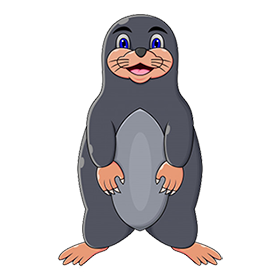
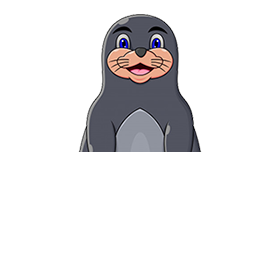
add bottom half of hole

Changed region(s): [[0.2, 0.5429, 0.8, 0.9714]]

diff --git a/index.html b/index.html
@@ -17,31 +17,31 @@
     <div class="container">
         <div class="row">
           <div class="hole col-sm">
+            <img class="hole-bottom" src="pics/hole-bottom-half.png" width="300" height="150">
             <img class="mole" src="pics/cute-mole.png" alt="mole">
-            <img src="https://media.istockphoto.com/vectors/big-hole-the-ground-illustration-ground-works-digging-of-sand-coal-vector-id1161246936?k=6&m=1161246936&s=612x612&w=0&h=DOnlVygrvkmBqCj7sGTeI5lyXTJvcJMXBOgR5aCmBGQ=" 
-            width="300" height="150" alt="hole">
+            <img src="pics/hole.jpg" width="300" height="150" alt="hole">
           </div>
           <div class="hole col-sm">
-            <img src="https://media.istockphoto.com/vectors/big-hole-the-ground-illustration-ground-works-digging-of-sand-coal-vector-id1161246936?k=6&m=1161246936&s=612x612&w=0&h=DOnlVygrvkmBqCj7sGTeI5lyXTJvcJMXBOgR5aCmBGQ=" 
-            width="300" height="150" alt="hole">
+            <img class="hole-bottom" src="pics/hole-bottom-half.png" width="300" height="150">
+            <img src="pics/hole.jpg" width="300" height="150" alt="hole">
           </div>
           <div class="hole col-sm">
-            <img src="https://media.istockphoto.com/vectors/big-hole-the-ground-illustration-ground-works-digging-of-sand-coal-vector-id1161246936?k=6&m=1161246936&s=612x612&w=0&h=DOnlVygrvkmBqCj7sGTeI5lyXTJvcJMXBOgR5aCmBGQ=" 
-            width="300" height="150" alt="hole">
+            <img class="hole-bottom" src="pics/hole-bottom-half.png" width="300" height="150">
+            <img src="pics/hole.jpg" width="300" height="150" alt="hole">
           </div>
         </div>
         <div class="row">
             <div class="hole col-sm">
-                <img src="https://media.istockphoto.com/vectors/big-hole-the-ground-illustration-ground-works-digging-of-sand-coal-vector-id1161246936?k=6&m=1161246936&s=612x612&w=0&h=DOnlVygrvkmBqCj7sGTeI5lyXTJvcJMXBOgR5aCmBGQ=" 
-                width="300" height="150" alt="hole">
+              <img class="hole-bottom" src="pics/hole-bottom-half.png" width="300" height="150">
+              <img src="pics/hole.jpg" width="300" height="150" alt="hole">
             </div>
             <div class="hole col-sm">
-                <img src="https://media.istockphoto.com/vectors/big-hole-the-ground-illustration-ground-works-digging-of-sand-coal-vector-id1161246936?k=6&m=1161246936&s=612x612&w=0&h=DOnlVygrvkmBqCj7sGTeI5lyXTJvcJMXBOgR5aCmBGQ=" 
-                width="300" height="150" alt="hole">
+              <img class="hole-bottom" src="pics/hole-bottom-half.png" width="300" height="150">
+              <img src="pics/hole.jpg" width="300" height="150" alt="hole">
             </div>
             <div class="hole col-sm">
-                <img src="https://media.istockphoto.com/vectors/big-hole-the-ground-illustration-ground-works-digging-of-sand-coal-vector-id1161246936?k=6&m=1161246936&s=612x612&w=0&h=DOnlVygrvkmBqCj7sGTeI5lyXTJvcJMXBOgR5aCmBGQ=" 
-                width="300" height="150" alt="hole">
+              <img class="hole-bottom" src="pics/hole-bottom-half.png" width="300" height="150">
+              <img src="pics/hole.jpg" width="300" height="150" alt="hole">
             </div>
           </div>
       </div>

diff --git a/app.css b/app.css
@@ -10,4 +10,10 @@ h1 {
 
 .mole {
     position: absolute;
+    z-index: 1;
   }
+
+.hole-bottom {
+    position: absolute;
+    z-index: 2;
+}
